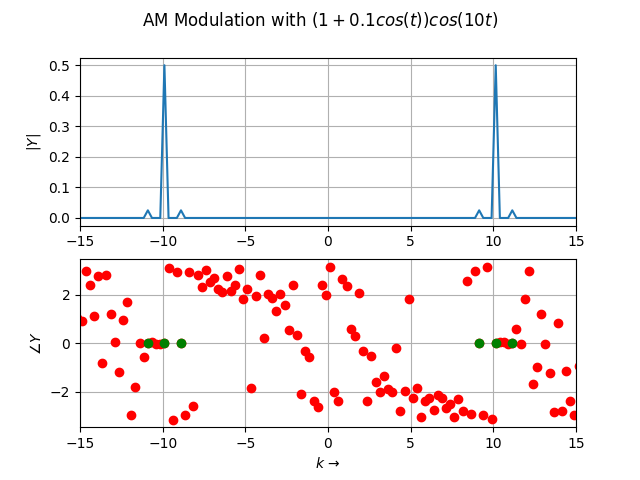
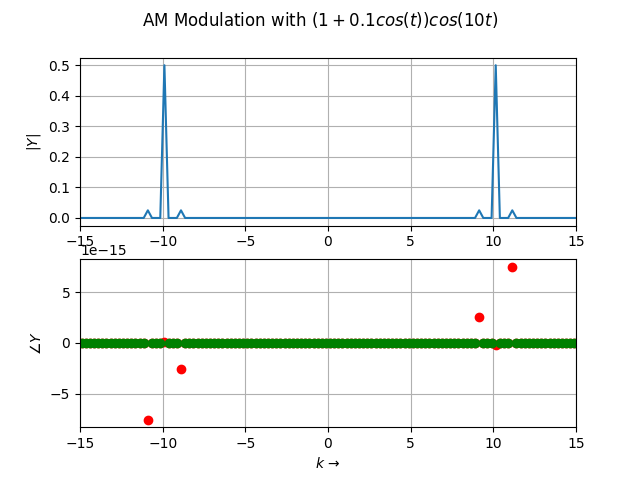
started report

Changed region(s): [[0.0625, 0.5312, 0.9062, 0.9062], [0.125, 0.5, 0.2188, 0.5312], [0.75, 0.5312, 0.8125, 0.5625]]

diff --git a/Week 8/code.py b/Week 8/code.py
@@ -42,6 +42,8 @@ fig1 = plt.figure(1)
 fig1.suptitle(r'FFT of $sin(5t)$')
 YMag = np.abs(Y)
 YPhase = np.angle(Y)
+presentFreqs = np.where(YMag < 1e-3)
+YPhase[presentFreqs] = 0
 w = np.linspace(-64, 63, 128)
 plt.subplot(211)
 plt.plot(w, YMag)
@@ -53,7 +55,6 @@ plt.plot(w, YPhase, 'ro')
 plt.xlim([-10, 10])
 plt.ylabel(r'$\angle Y$')
 plt.xlabel(r'$k\ \to$')
-presentFreqs = np.where(YMag > 1e-3)
 plt.plot(w[presentFreqs], YPhase[presentFreqs], 'go')
 plt.grid()
 plt.savefig(plotsDir+'Fig1.png')
@@ -68,6 +69,8 @@ fig2 = plt.figure(2)
 fig2.suptitle(r'AM Modulation with $(1+0.1cos(t))cos(10t)$')
 YMag = np.abs(Y)
 YPhase = np.angle(Y)
+presentFreqs = np.where(YMag < 1e-3)
+YPhase[presentFreqs] = 0
 w = np.linspace(-64, 64, 512)
 plt.subplot(211)
 plt.plot(w, YMag)
@@ -79,7 +82,6 @@ plt.plot(w, YPhase, 'ro')
 plt.xlim([-15, 15])
 plt.ylabel(r'$\angle Y$')
 plt.xlabel(r'$k\ \to$')
-presentFreqs = np.where(YMag > 1e-3)
 plt.plot(w[presentFreqs], YPhase[presentFreqs], 'go')
 plt.grid()
 plt.savefig(plotsDir+'Fig2.png')
@@ -94,6 +96,8 @@ fig3 = plt.figure(3)
 fig3.suptitle(r'Spectrum of $sin^3(t)$')
 YMag = np.abs(Y)
 YPhase = np.angle(Y)
+presentFreqs = np.where(YMag < 1e-3)
+YPhase[presentFreqs] = 0
 w = np.linspace(-64, 64, 513)
 w = w[:-1]
 plt.subplot(211)
@@ -118,6 +122,8 @@ fig4 = plt.figure(4)
 fig4.suptitle(r'Spectrum of $cos^3(t)$')
 YMag = np.abs(Y)
 YPhase = np.angle(Y)
+presentFreqs = np.where(YMag < 1e-3)
+YPhase[presentFreqs] = 0
 w = np.linspace(-64, 64, 513)
 w = w[:-1]
 plt.subplot(211)
@@ -142,6 +148,8 @@ fig5 = plt.figure(5)
 fig5.suptitle(r'Spectrum of $cos(20t + 5cos(t))$')
 YMag = np.abs(Y)
 YPhase = np.angle(Y)
+presentFreqs = np.where(YMag < 1e-3)
+YPhase[presentFreqs] = 0
 w = np.linspace(-64, 64, 513)
 w = w[:-1]
 plt.subplot(211)
@@ -150,7 +158,7 @@ plt.xlim([-50, 50])
 plt.ylabel(r'$\|Y\|$')
 plt.grid()
 plt.subplot(212)
-significantPhase = np.where(YMag > 1e-3)
+significantPhase = np.where(YMag < 1e-3)
 plt.plot(w[significantPhase], YPhase[significantPhase], 'ro')
 plt.xlim([-50, 50])
 plt.ylabel(r'$\angle Y$')
@@ -169,6 +177,8 @@ fig6 = plt.figure(6)
 fig6.suptitle(r'Comparison of spectrum of $e^{-\frac{t^2}{2}}$')
 YMag = np.abs(Y)
 YPhase = np.angle(Y)
+presentFreqs = np.where(YMag < 1e-3)
+YPhase[presentFreqs] = 0
 w = np.linspace(-64, 64, 513)
 w = w[:-1]
 plt.subplot(221)
